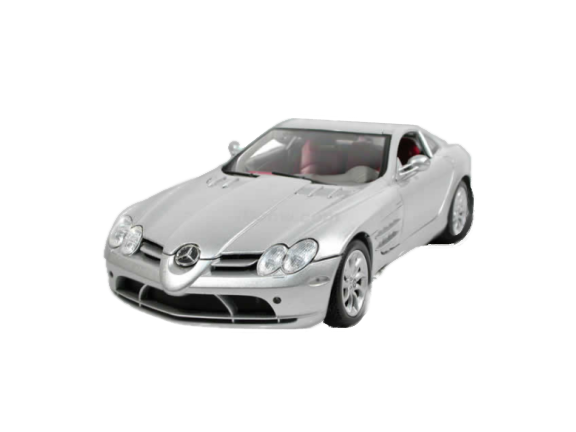
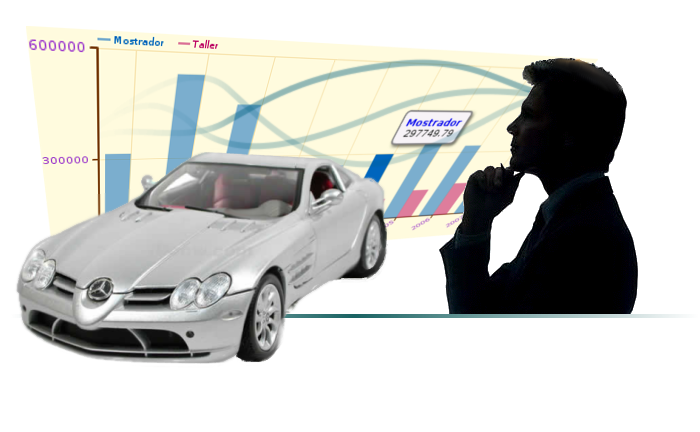
nuevos fuegos artificiales

diff --git a/src/bielerDjango/olap/templates/initial.html b/src/bielerDjango/olap/templates/initial.html
@@ -6,8 +6,8 @@
 <link rel="stylesheet" href="/media/css/olap.css" type="text/css" />
 </head>
 
-<body >
-<div style="background-image:url(/media/img/fondo_degrade.png); background-size:auto;margin:0px">
+<body style="background-image:url(/media/img/fondo_degrade.png); background-size:auto;margin:0px" >
+<div >
 
 <center style="vertical-align: middle;">
     <div style="vertical-align: bottom; text-align: center"><img src="/media/img/autofondo.png" /></div>
@@ -16,9 +16,10 @@
 </div>
 
 
-<div style="border:1px solid #000;background-color:#72adab; padding-top:5px;height:15%;vertical-align:middle" align="center">
-    <p style=" font-style:italic; margin:5px;">Sistema de soporte de decisiones Bieler S.A.</p>
-    <p style="font-style:italic; margin:5px; ">Este software se encuentra bajo la licencia GPL v3.</p>
+<!-- <div style="border:1px solid #666;background-color:#72adab; padding-top:5px;height:15%;vertical-align:middle" align="center">   -->
+<div style="color:#333; font-style:italic;" align="right">
+    <p style="margin:2px;">Sistema de soporte de decisiones Bieler S.A.</p>
+    <p style="margin:2px;font-size:0.8em">Este software se encuentra bajo la licencia GPL v3.</p>
 </div>
 
 </body>

diff --git a/src/bielerDjango/olap/templates/reportes2.html b/src/bielerDjango/olap/templates/reportes2.html
@@ -109,7 +109,7 @@
 
 
 </head>
-<body>
+<body  style="background-image:url(/media/img/fondo_degrade.png); background-size:auto">
 
 
 <div class="outer-container">
@@ -196,9 +196,9 @@
 
 {% endif %}
 <span class="titulo_detalles">Funcion de cubo</span>: {{cf}}
-</div><!-- FIN more_details --><p style="font-size:1.4em; font-weight:bold">{{explanation}}</p>
+</div><!-- FIN more_details --><p style="font-size:1.4em; font-weight:bold;color:#555">{{explanation}}</p>
 <script type="text/javascript" src="/media/js/swfobject.js"></script>
-<div id="flashcontent"></div><script type="text/javascript">
+<center><div id="flashcontent"></div></center><script type="text/javascript">
 
 {% if mostrar_grafico %}
 var so = new SWFObject("/media/flash/open-flash-chart.swf", "chart", "600", "300", "9", "#FFFFFF");
@@ -214,6 +214,7 @@ so.write("flashcontent");
 <br /><br /><br />
 
 <a class="boton" href="/pivot/">Pivot</a> 
+<center>
 <table class="data_table">
 
  <!-- AGREGAR TITULOS DE ARRIBA -->
@@ -419,7 +420,7 @@ so.write("flashcontent");
  {% endfor %}
 
 </table>
-
+</center>
 
 
 

diff --git a/src/bielerDjango/olap/templates/index.html b/src/bielerDjango/olap/templates/index.html
@@ -6,11 +6,8 @@
 <link rel="stylesheet" href="/media/css/olap.css" type="text/css" />
 </head>
 <frameset cols="200,*">
-
-
-	<frame src="/navigation_tree/" name="browser" id="browser" frameborder="0" />
-
-<frame src="/initial/" name="detail" id="detail" frameborder="0" style="background-color:#9ce8e7; padding:0px" />
+<frame src="/navigation_tree/" name="browser" id="browser" frameborder="0" />
+<frame src="/initial/"         name="detail"  id="detail"  frameborder="0" />
 	<noframes>
 	<body>
 		This application works best with a frames-enabled browser, but can be used without frames by following the link below.<br />

diff --git a/src/bielerDjango/olap/templates/navigation_tree.html b/src/bielerDjango/olap/templates/navigation_tree.html
@@ -39,7 +39,7 @@
 
 
 	</head>
-	<body style="border-right: 1px dashed #000; margin: 0px">
+	<body style="border-right: 1px dashed #ddd; margin: 0px">
 	
 	<div id="main">
 
